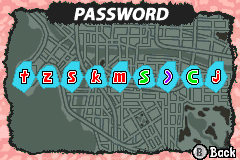
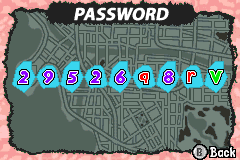
mangukood.md: Muudetud mänguparool parandus

diff --git a/mangukood.md b/mangukood.md
@@ -4,7 +4,7 @@
 
 ## Mänguparool
 
-See mänguparool on `tzskmS)Cj` saad lahti kõik tasemed tehtud, kõik kollased tomatid kogumis, 9 elud, 99 jalgpalli pead, toideasjad ja isegi lisaks saladus Helga ruum.
+See mänguparool on `29526q8rV` saad lahti kõik tasemed tehtud, kõik kollased tomatid kogumis, 9 elud, 99 jalgpalli pead, toideasjad, punane tomat ja isegi lisaks saladus Helga ruum.
 
 Ekraanpilt mängust:
 
